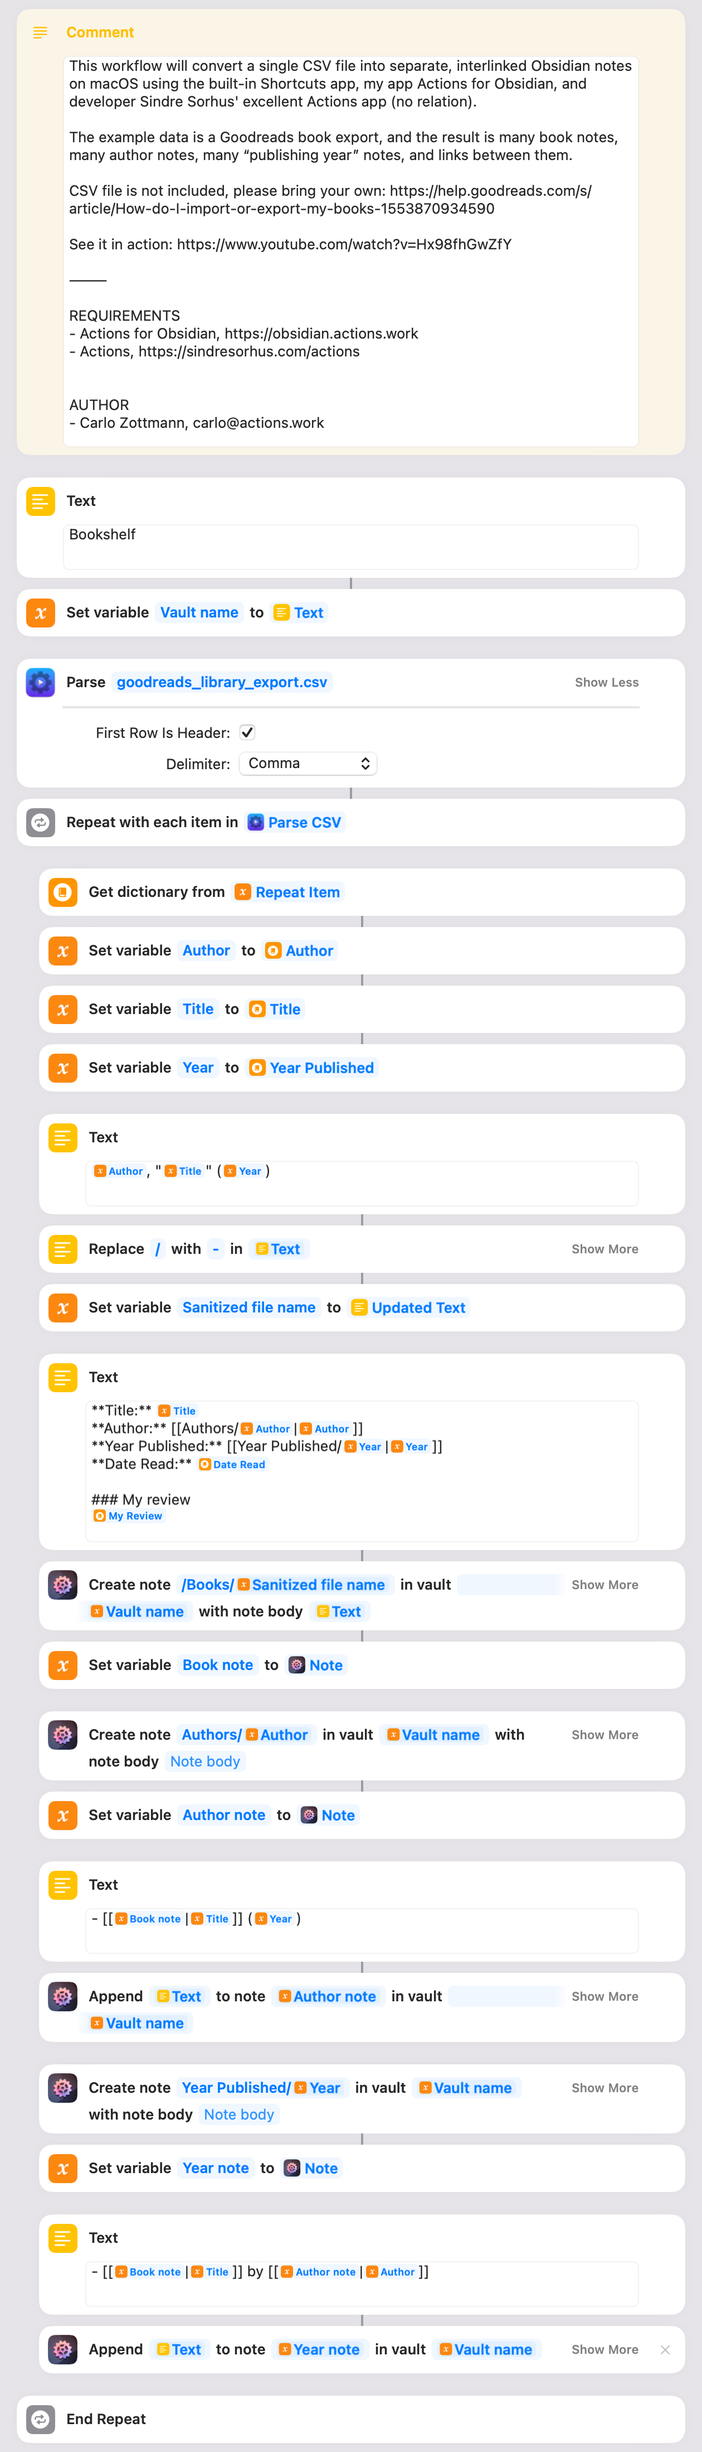
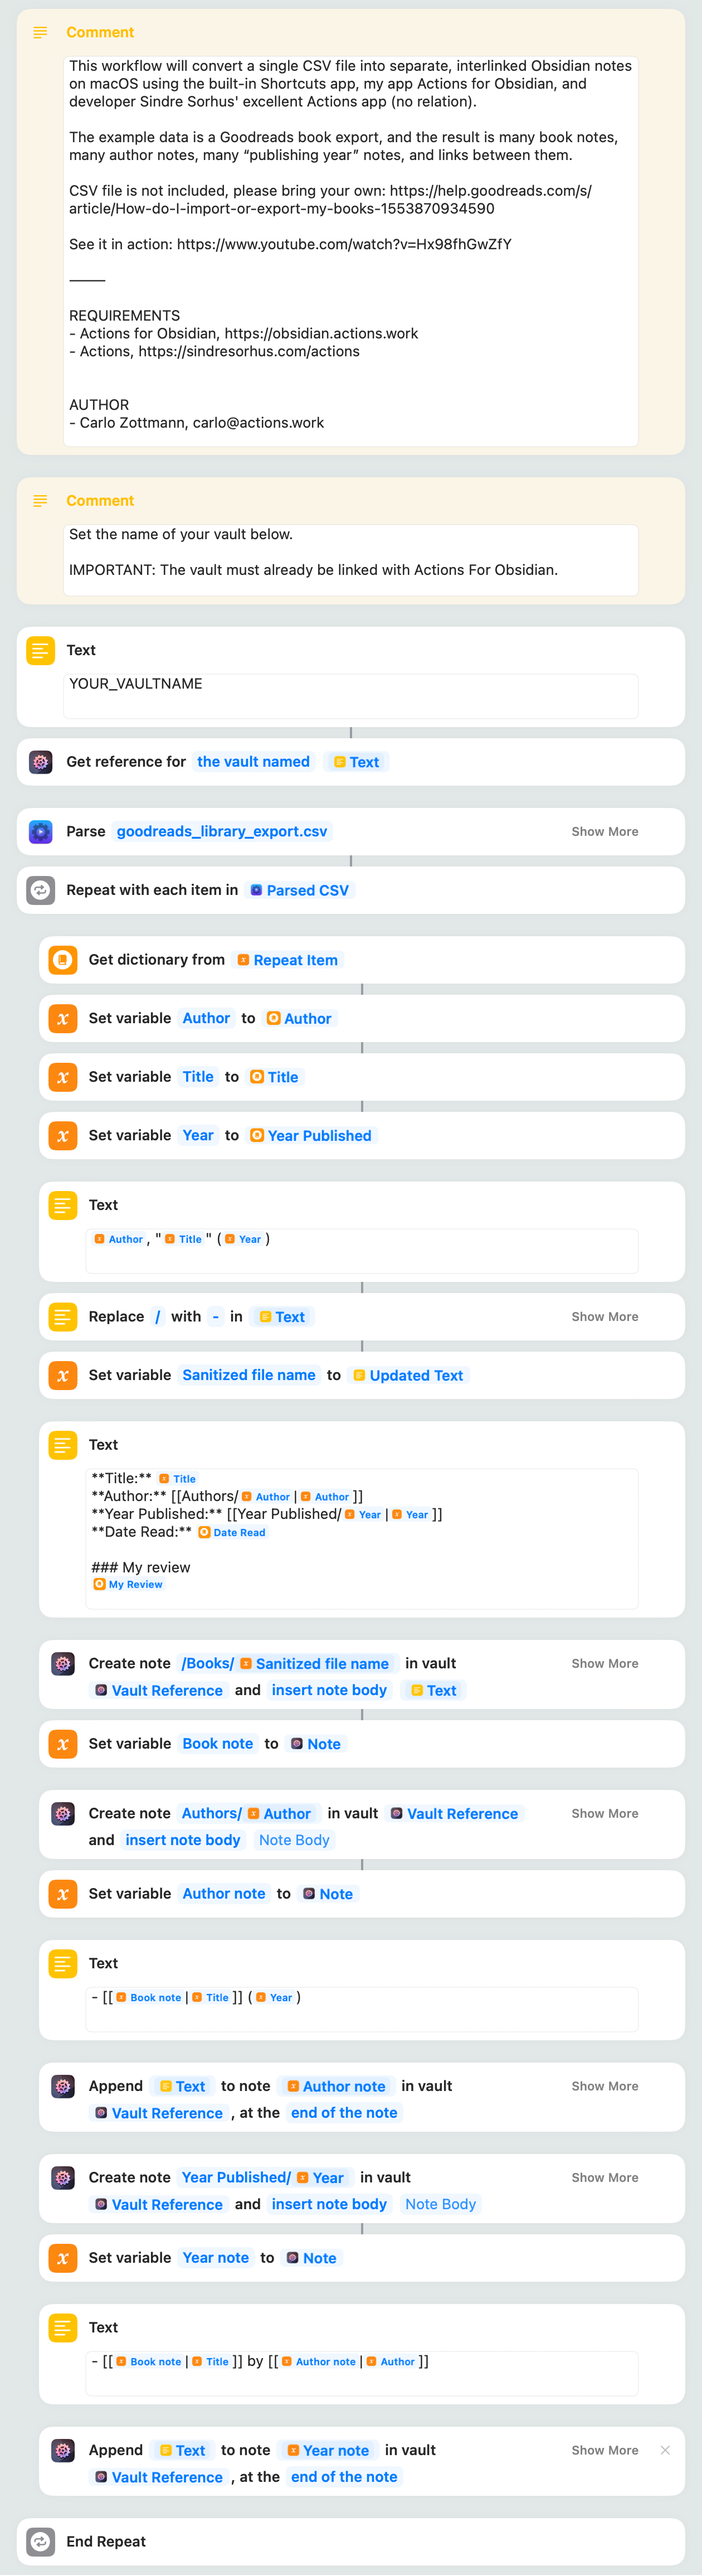
[CHG] Updates workflow for AFO 2024.1

Changed region(s): [[0.0, 0.0, 0.9905, 0.9973]]

diff --git a/Goodreads CSV to Obsidian Notes/README.md b/Goodreads CSV to Obsidian Notes/README.md
@@ -37,6 +37,10 @@ This workflow is part of the [**Actions for Obsidian** Workflow Library](https:/
 
 ## Workflow history / Change log
 
+### 2024-02-27
+
+- Adjusted vault handling to work with AFO 2024.1.
+
 ### 2023-04-28
 
 - First version.
